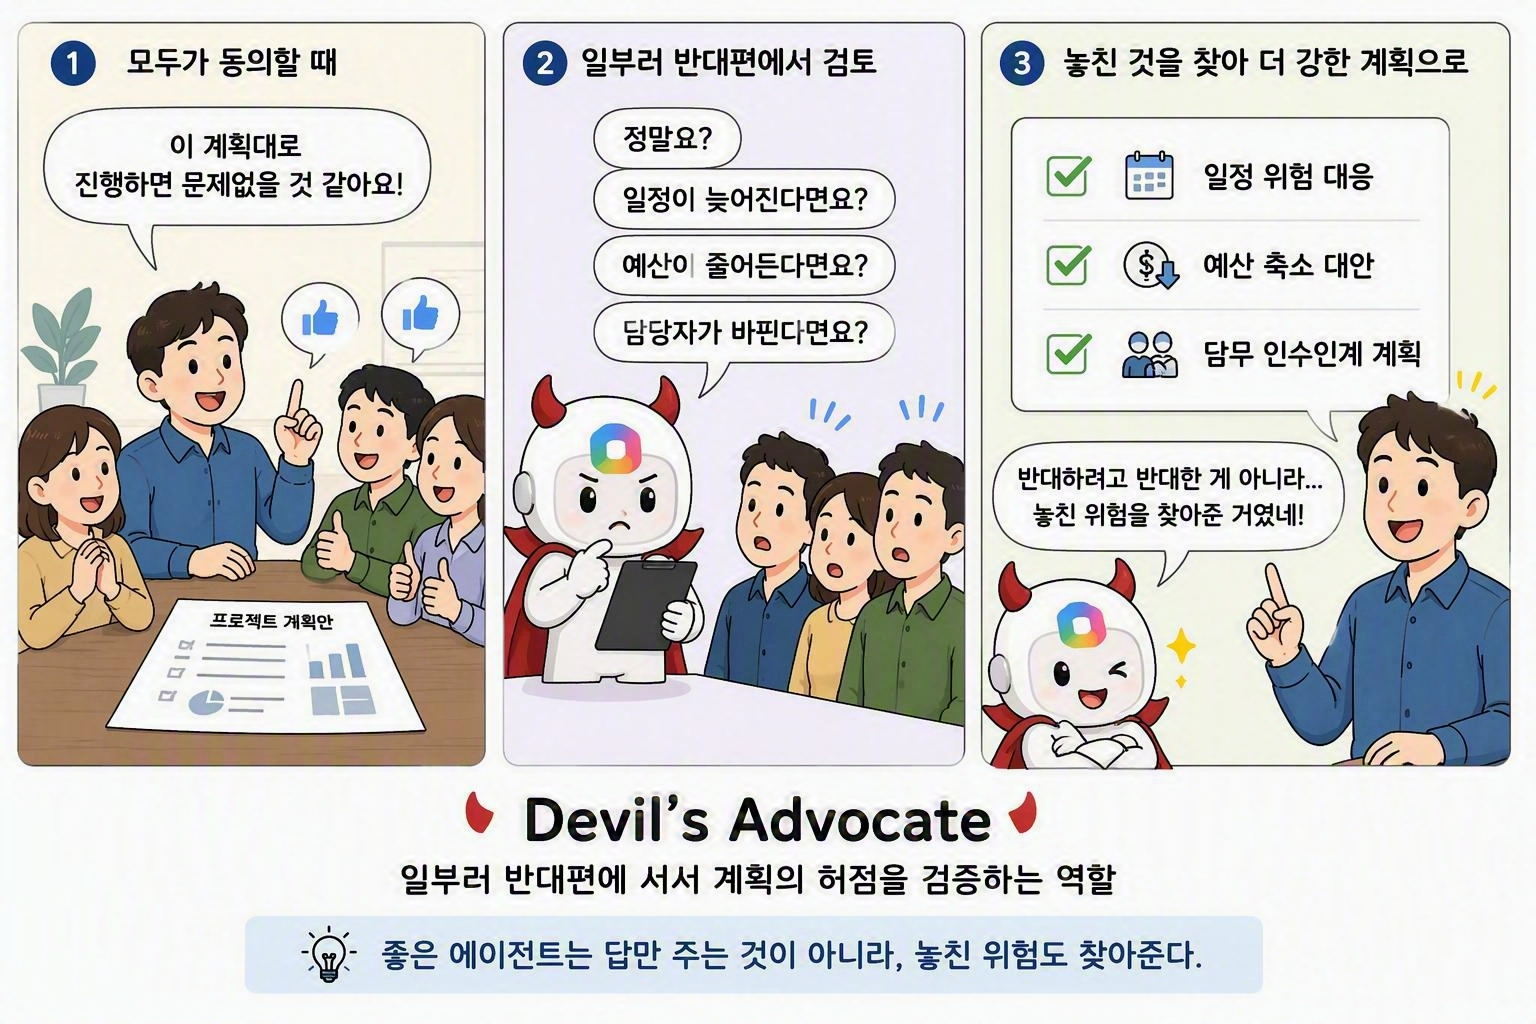
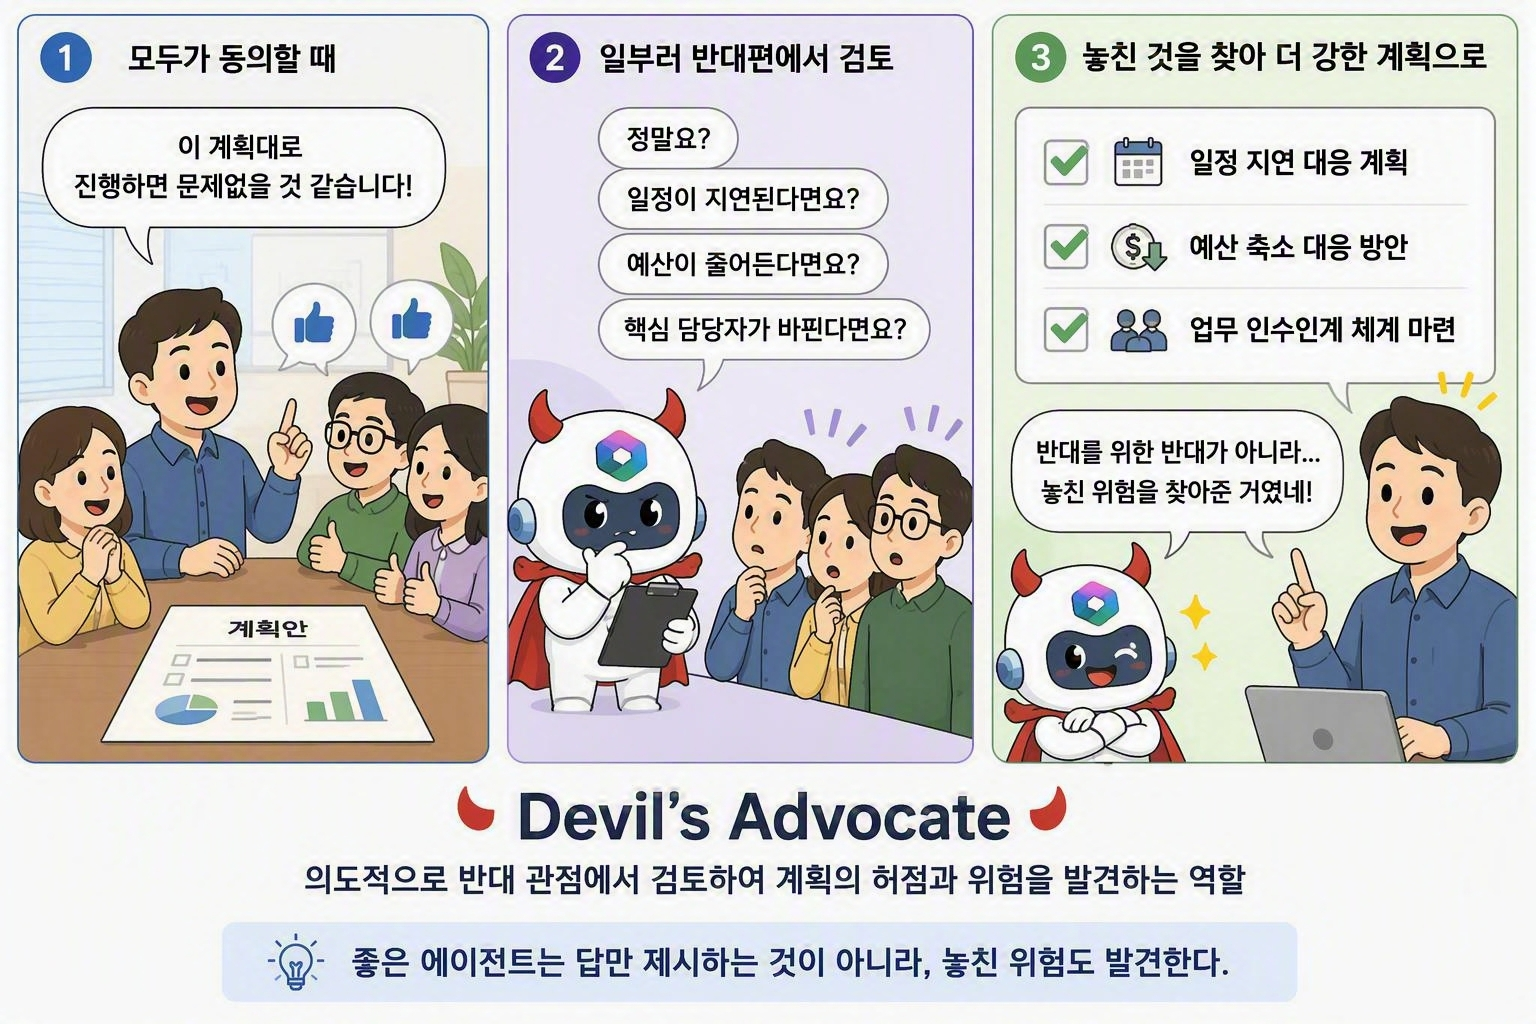
개념 그림을 새 버전으로 교체 (#27)
문구가 더 또렷한 판으로 바꿨다. 3번 컷의 항목도 "일정 지연 대응 계획",
"예산 축소 대응 방안", "업무 인수인계 체계 마련"으로 구체화됐다.
바뀐 그림에 맞춰 대체 텍스트도 고쳤다.

Changed region(s): [[0.0, 0.0, 1.0, 0.875], [0.125, 0.9062, 0.8438, 1.0], [0.2188, 0.0938, 0.2812, 0.125]]

diff --git a/templates/devils-advocate-agent-builder/index.html b/templates/devils-advocate-agent-builder/index.html
@@ -693,7 +693,7 @@
         </header>
 
         <figure class="concept-figure">
-          <img src="images/concept-devils-advocate.png" alt="세 컷 그림. 1. 회의에서 모두가 계획에 동의한다. 2. 에이전트가 일부러 반대편에 서서 일정 지연, 예산 축소, 담당자 교체를 묻는다. 3. 그 질문에서 일정 위험 대응, 예산 축소 대안, 업무 인수인계 계획이 나와 계획이 더 강해진다." />
+          <img src="images/concept-devils-advocate.png" alt="세 컷 그림. 1. 회의에서 모두가 계획에 동의한다. 2. 에이전트가 일부러 반대편에 서서 일정 지연, 예산 축소, 핵심 담당자 교체를 묻는다. 3. 그 질문에서 일정 지연 대응 계획, 예산 축소 대응 방안, 업무 인수인계 체계가 나와 계획이 더 강해진다." />
           <figcaption>모두가 동의할 때 한 사람이 반대편에 섭니다. 반대하려고 반대하는 것이 아니라 아무도 묻지 않은 것을 묻기 위해서입니다.</figcaption>
         </figure>
 
